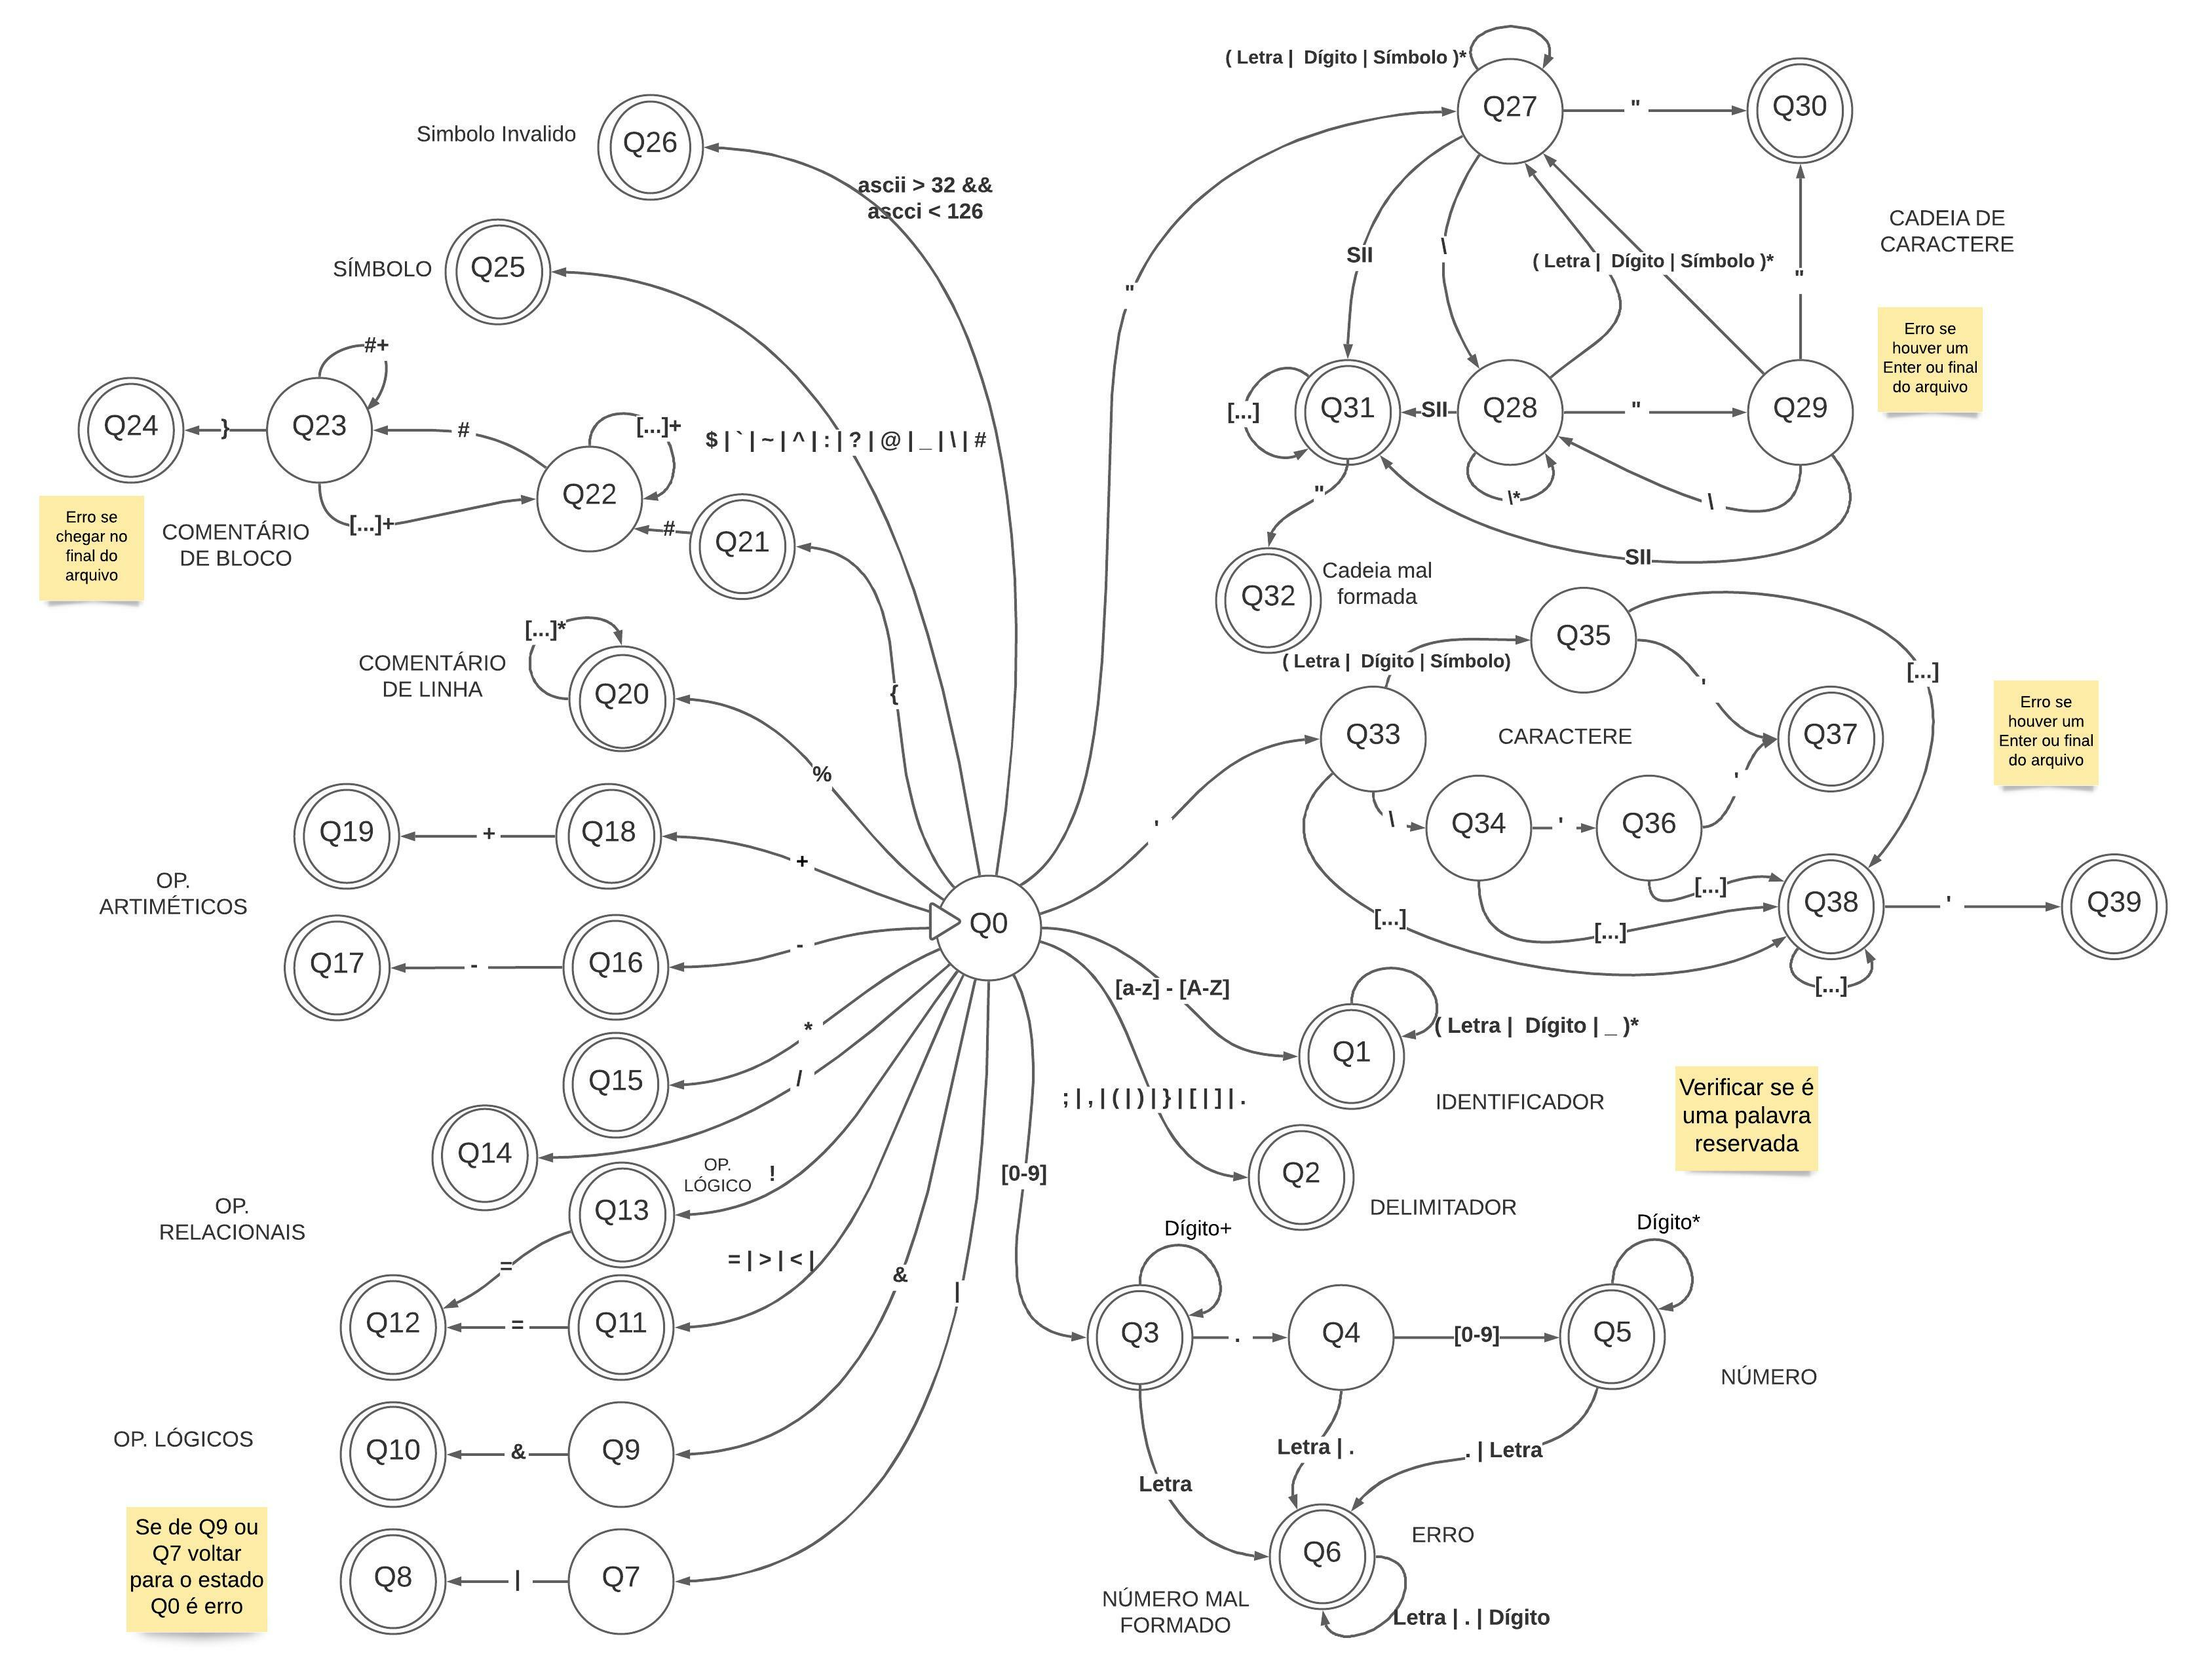
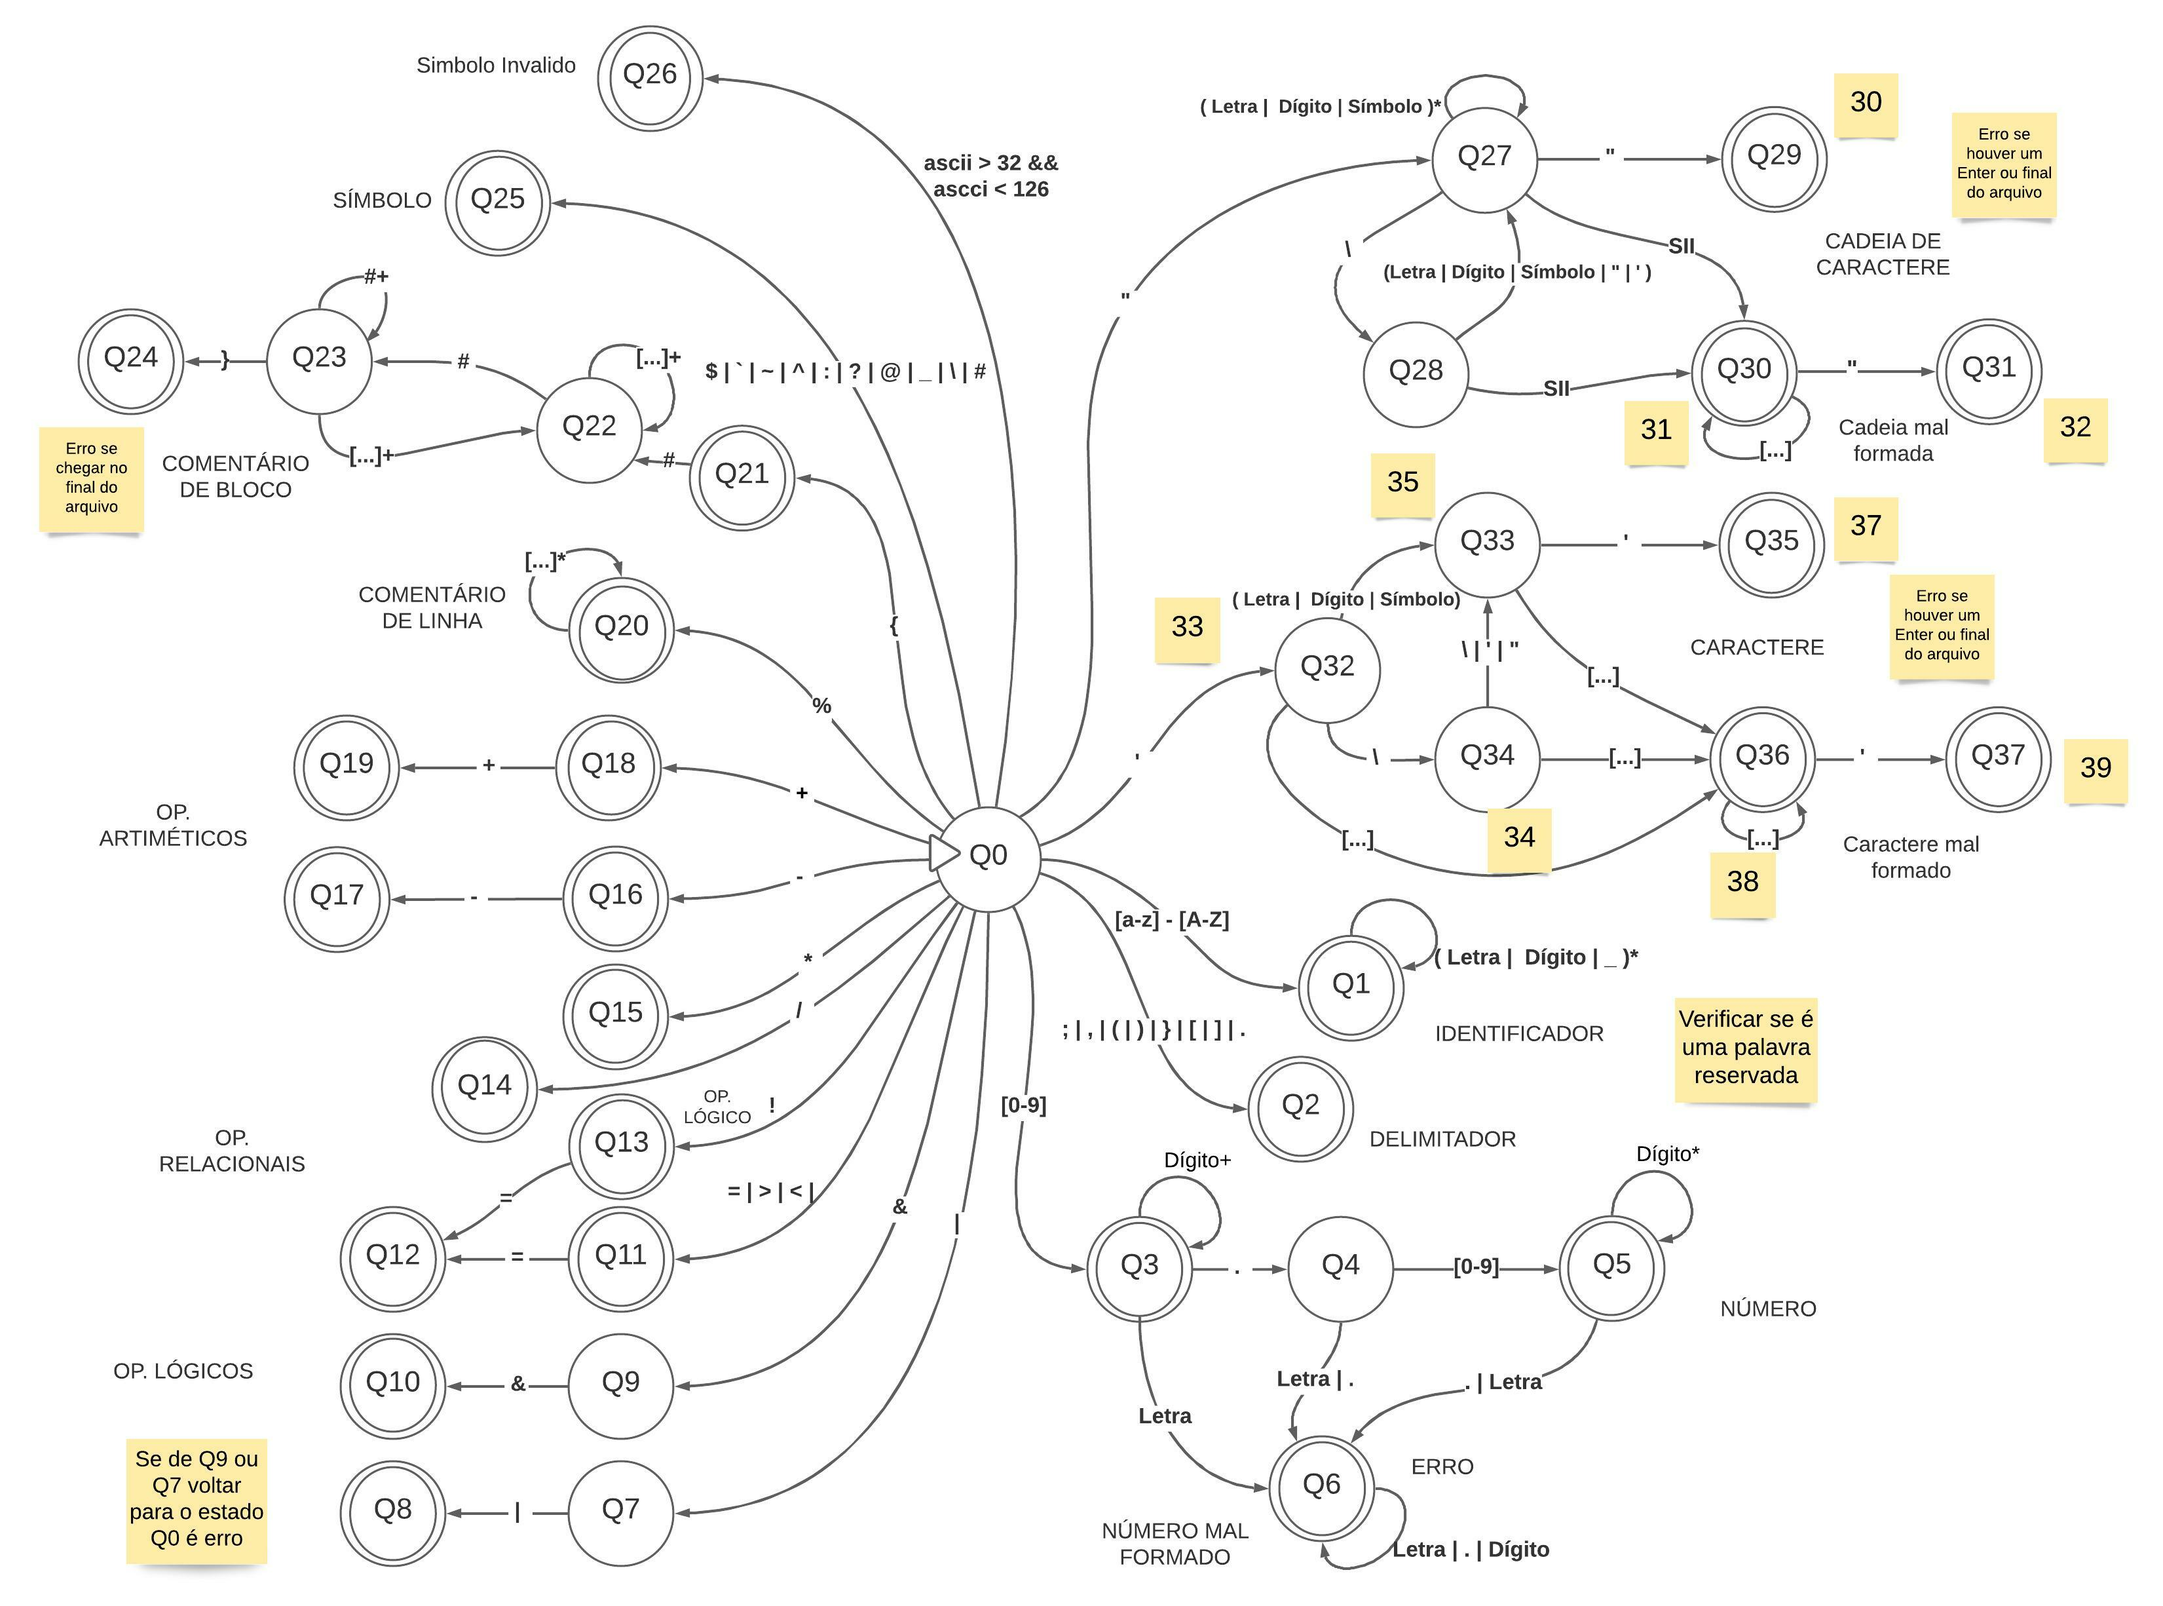
Tirando estados redundantes

diff --git a/AnalisadorLexico.py b/AnalisadorLexico.py
@@ -1,6 +1,5 @@
 #coding: utf-8
 import os
-import sys
 import shutil
 
 countArq = 1
@@ -129,27 +128,23 @@ def maqEstados(caractere,entrada, linha):
     elif(estado == "Q28"):
         estadoQ28(caractere, entrada, linha)   
     elif(estado == "Q29"):
-        estadoQ29(caractere, entrada, linha)   
+        estadoQ29(linha)   
     elif(estado == "Q30"):
-        estadoQ30(linha)  
+        estadoQ30(caractere, entrada, linha)  
     elif(estado == "Q31"):
-        estadoQ31(caractere, entrada, linha) 
+        estadoQ31(linha) 
     elif(estado == "Q32"):
-        estadoQ32(linha)
+        estadoQ32(caractere, entrada, linha)
     elif(estado == "Q33"):
         estadoQ33(caractere, entrada, linha)
     elif(estado == "Q34"):
         estadoQ34(caractere, entrada, linha)   
     elif(estado == "Q35"):
-        estadoQ35(caractere, entrada, linha)   
+        estadoQ35(linha)   
     elif(estado == "Q36"):
         estadoQ36(caractere, entrada, linha)   
     elif(estado == "Q37"):
         estadoQ37(linha)   
-    elif(estado == "Q38"):
-        estadoQ38(caractere, entrada, linha)
-    elif(estado == "Q39"):
-        estadoQ39(linha) 
     else:
         print("Bugou o estado")
 
@@ -190,7 +185,7 @@ def estadoQ0(caractere,entrada, linha):
     elif(caractere == 34):
         estado = "Q27" 
     elif(caractere == 39):
-        estado = "Q33"    
+        estado = "Q32"    
     else:
         if(not(caractere == 10 or caractere == 194 or caractere == 195 or caractere == 32 or caractere == 3 or caractere ==9 or caractere ==11)):
             print (caractere)
@@ -472,27 +467,8 @@ def estadoQ26(linha):
     output(linha, "SII", buffer)
     buffer=""
 
-#Do estadoQ27 ao estadoQ32 analisa a cadeia de caracteres
+# Do estadoQ27 ao estadoQ31 analisa a cadeia de caracteres
 def estadoQ27(caractere, entrada, linha):
-    global buffer, estado
-    if(caractere == 34):
-        buffer=buffer+entrada
-        estado = "Q30"
-    elif(caractere == 92):
-        buffer=buffer+entrada
-        estado = "Q28"
-    elif(caractere >=32 and caractere <= 126 and not(caractere == 39)):
-        buffer=buffer+entrada
-        estado = "Q27"
-    elif(caractere == 10 or caractere == 3):
-        estado = "Q0"
-        output(linha,"CMF",buffer)
-        buffer=""
-    else:
-        buffer=buffer+entrada
-        estado = "Q31"
-
-def estadoQ28(caractere, entrada, linha):
     global buffer, estado
     if(caractere == 34):
         buffer=buffer+entrada
@@ -509,17 +485,11 @@ def estadoQ28(caractere, entrada, linha):
         buffer=""
     else:
         buffer=buffer+entrada
-        estado = "Q31"
-
-def estadoQ29(caractere, entrada, linha):
-    global buffer, estado
-    if(caractere == 34):
-        buffer=buffer+entrada
         estado = "Q30"
-    elif(caractere == 92):
-        buffer=buffer+entrada
-        estado = "Q28"
-    elif(caractere >=32 and caractere <= 126 and not(caractere == 39)):
+
+def estadoQ28(caractere, entrada, linha):
+    global buffer, estado
+    if(caractere >=32 and caractere <= 126):
         buffer=buffer+entrada
         estado = "Q27"
     elif(caractere == 10 or caractere == 3):
@@ -531,7 +501,7 @@ def estadoQ29(caractere, entrada, linha):
         estado = "Q31"
 
 # Estado que classifica em cadeia de caractere
-def estadoQ30(linha):
+def estadoQ29(linha):
     global buffer, estado
     output(linha,"CAD",buffer)
     estado = "Q0"
@@ -539,11 +509,11 @@ def estadoQ30(linha):
 
 # Estado que classifica em cadeia mal formada caso não encontre o simbolo que finaliza a cadeia 
 # e encontre simbolos invalidos ou apenas não encontre o simbolo que a finaliza
-def estadoQ31(caractere, entrada, linha):
+def estadoQ30(caractere, entrada, linha):
     global buffer, estado
     if(caractere == 34):
         buffer=buffer+entrada
-        estado = "Q32"
+        estado = "Q31"
     elif(caractere == 10 or caractere == 3):
         estado = "Q0"
         output(linha,"CMF",buffer)
@@ -552,22 +522,34 @@ def estadoQ31(caractere, entrada, linha):
         buffer=buffer+entrada
         estado = "Q31"
 
-
 # Estado que classifica em cadeia mal formada caso encontre um simbolo invalido mesmo que encontre 
 # simbolo que finaliza a cadeia de caracteres
-def estadoQ32(linha):
+def estadoQ31(linha):
     global buffer, estado
     output(linha,"CMF",buffer)
     estado = "Q0"
     buffer=""
 
-#Do estadoQ33 ao estadoQ39 analisa se eh um caractere simples
-def estadoQ33(caractere, entrada, linha):
+# Do estadoQ32 ao estadoQ37 analisa se eh um caractere simples
+def estadoQ32(caractere, entrada, linha):
     global buffer, estado
     if(caractere == 92):
         buffer=buffer+entrada
         estado = "Q34"
     elif(caractere >=32 and caractere <= 126 and not(caractere == 39) and not(caractere == 34)):
+        buffer=buffer+entrada
+        estado = "Q33"
+    elif(caractere == 10 or caractere == 3):
+        estado = "Q0"
+        output(linha,"CaMF",buffer)
+        buffer=""
+    else:
+        buffer=buffer+entrada
+        estado = "Q36"
+
+def estadoQ33(caractere, entrada, linha):
+    global buffer, estado
+    if(caractere == 39):
         buffer=buffer+entrada
         estado = "Q35"
     elif(caractere == 10 or caractere == 3):
@@ -576,34 +558,30 @@ def estadoQ33(caractere, entrada, linha):
         buffer=""
     else:
         buffer=buffer+entrada
-        estado = "Q38"
+        estado = "Q36"
 
 def estadoQ34(caractere, entrada, linha):
     global buffer, estado
-    if(caractere == 39):
+    if(caractere == 39 or caractere == 34 or caractere == 92):
+        buffer=buffer+entrada
+        estado = "Q33"
+    elif(caractere == 10 or caractere == 3):
+        estado = "Q0"
+        output(linha,"CaMF",buffer)
+        buffer=""
+    else:
         buffer=buffer+entrada
         estado = "Q36"
-    elif(caractere == 10 or caractere == 3):
-        estado = "Q0"
-        output(linha,"CaMF",buffer)
-        buffer=""
-    else:
-        buffer=buffer+entrada
-        estado = "Q38"
 
-def estadoQ35(caractere, entrada, linha):
+# Estado que classifica em caractere simples
+def estadoQ35(linha):
     global buffer, estado
-    if(caractere == 39):
-        buffer=buffer+entrada
-        estado = "Q37"
-    elif(caractere == 10 or caractere == 3):
-        estado = "Q0"
-        output(linha,"CaMF",buffer)
-        buffer=""
-    else:
-        buffer=buffer+entrada
-        estado = "Q38"
+    output(linha,"CAR",buffer)
+    estado = "Q0"
+    buffer=""
 
+# Estado que classifica em caractere simples mal formado caso não ache o simbolo que finaliza ou
+# encontre um simbolo invalido e tambem não encontre o simbolo que finaliza o caractere simples
 def estadoQ36(caractere, entrada, linha):
     global buffer, estado
     if(caractere == 39):
@@ -615,33 +593,11 @@ def estadoQ36(caractere, entrada, linha):
         buffer=""
     else:
         buffer=buffer+entrada
-        estado = "Q38"
-
-# Estado que classifica em caractere simples
-def estadoQ37(linha):
-    global buffer, estado
-    output(linha,"CAR",buffer)
-    estado = "Q0"
-    buffer=""
-
-# Estado que classifica em caractere simples mal formado caso não ache o simbolo que finaliza ou
-# encontre um simbolo invalido e tambem não encontre o simbolo que finaliza o caractere simples
-def estadoQ38(caractere, entrada, linha):
-    global buffer, estado
-    if(caractere == 39):
-        buffer=buffer+entrada
-        estado = "Q39"
-    elif(caractere == 10 or caractere == 3):
-        estado = "Q0"
-        output(linha,"CaMF",buffer)
-        buffer=""
-    else:
-        buffer=buffer+entrada
-        estado = "Q38"
+        estado = "Q36"
 
 # Estado que classifica em caractere simples mal formado caso encontre um simbolo invalido e
 # encontre o simbolo que finaliza o caractere simples
-def estadoQ39(linha):
+def estadoQ37(linha):
     global buffer, estado
     output(linha,"CaMF",buffer)
     estado = "Q0"
@@ -654,7 +610,7 @@ try:
     shutil.rmtree("output")
     os.mkdir("output")        
 except:    
-    print("Diretorio ja existe!")
+    print("Erro na manipulação da pasta output!")
 pastas = os.listdir()
 for x in pastas:
 	if(x == "input"):
